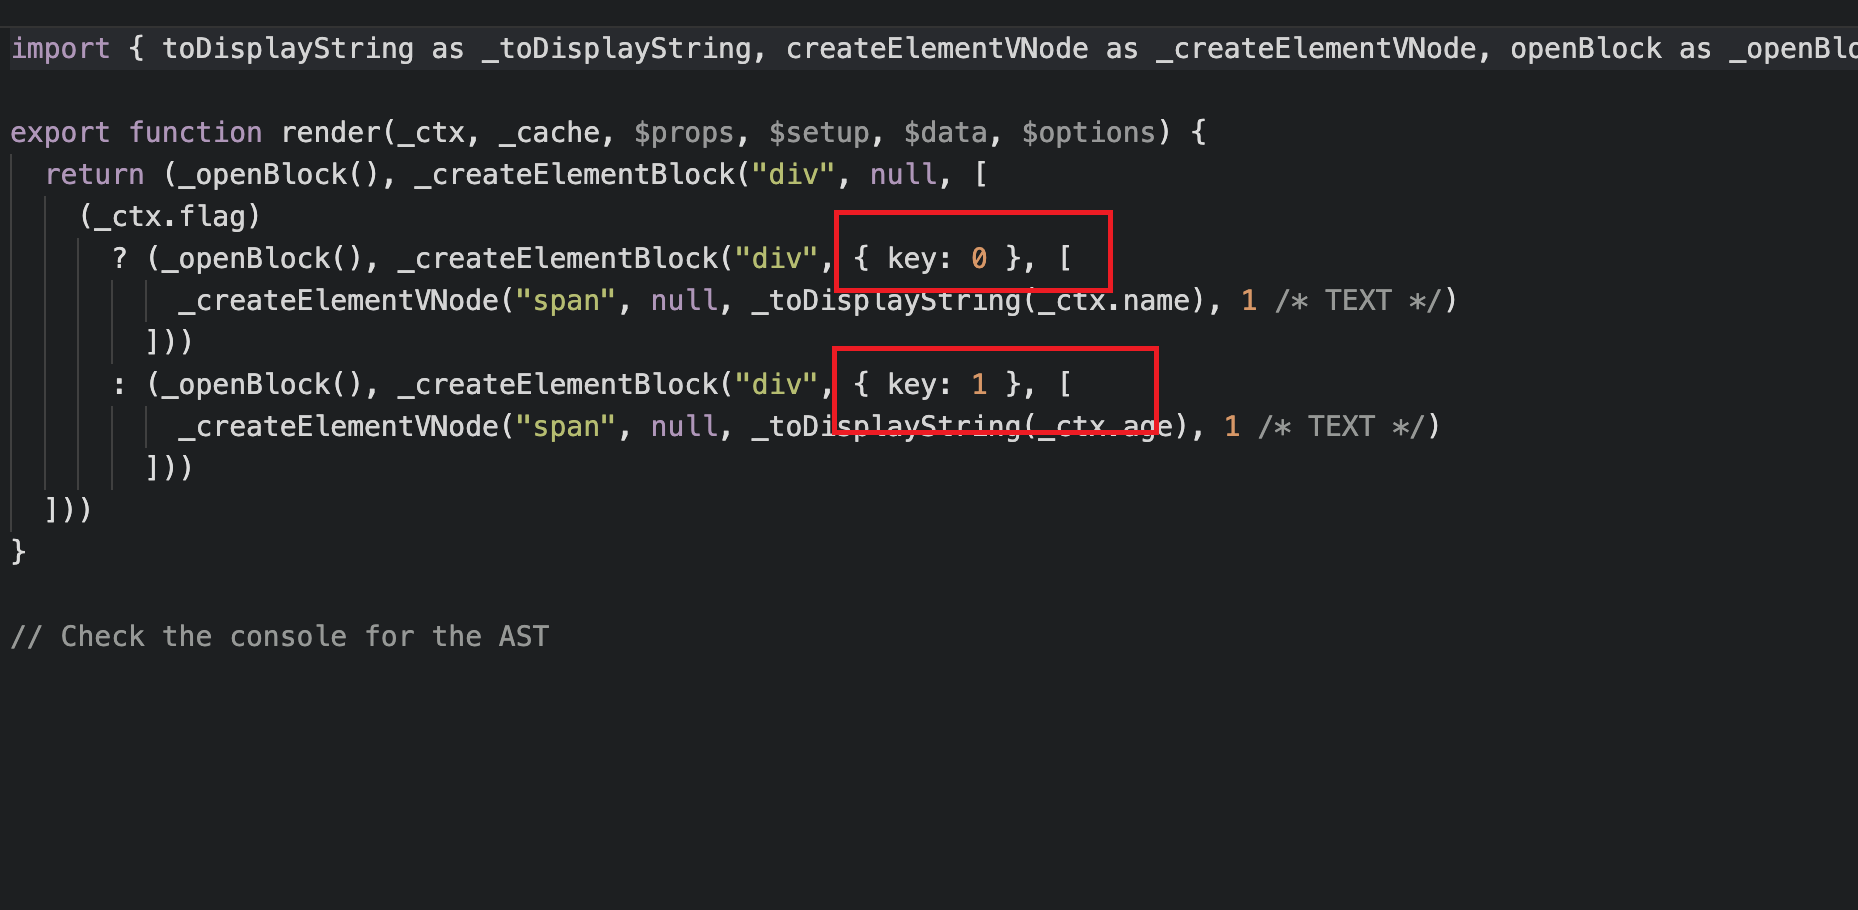
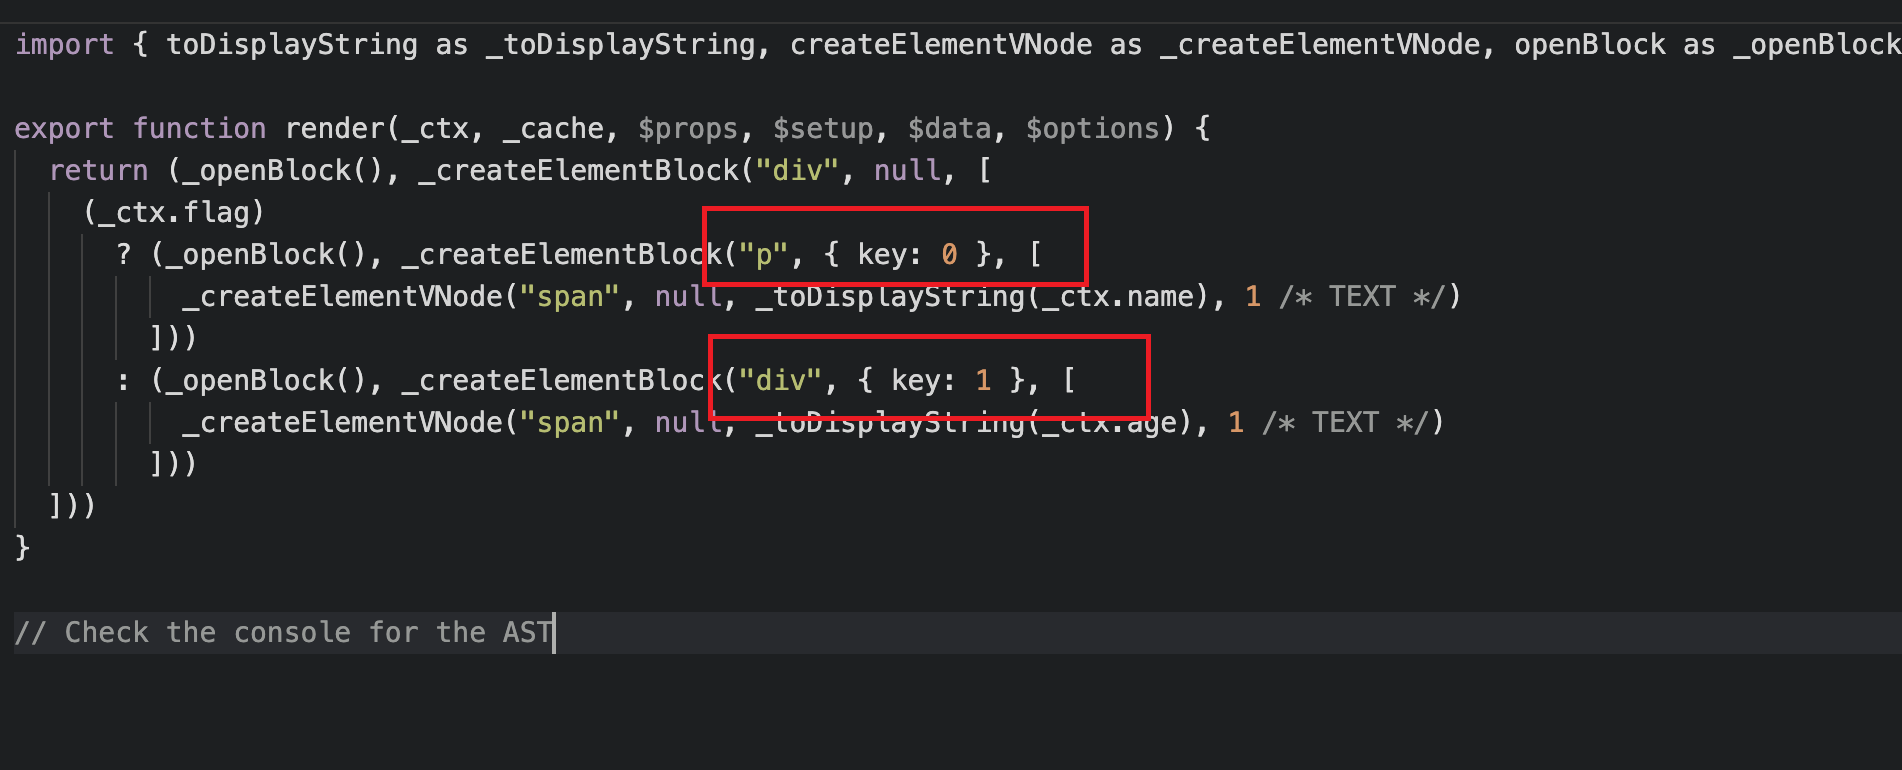
手写vue3---靶向更新的BlockTree

diff --git a/mini-vue/debug/runtime/patch-flags.html b/mini-vue/debug/runtime/patch-flags.html
@@ -41,20 +41,35 @@
     // }
 
 
+    // -------------------- v-if ----------------------
+
+    // export function render(_ctx, _cache, $props, $setup, $data, $options) {
+    //   return (_openBlock(), _createElementBlock("div", null, [
+    //     (_ctx.flag)
+    //       ? (_openBlock(), _createElementBlock("p", { key: 0 }, [
+    //         _createElementVNode("span", null, _toDisplayString(_ctx.name), 1 /* TEXT */)
+    //       ]))
+    //       : (_openBlock(), _createElementBlock("div", { key: 1 }, [
+    //         _createElementVNode("span", null, _toDisplayString(_ctx.age), 1 /* TEXT */)
+    //       ]))
+    //   ]))
+    // }
+
+
+    // -------------------- v-for ----------------------
+
     export function render(_ctx, _cache, $props, $setup, $data, $options) {
-      return (_openBlock(), _createElementBlock("section", null, [
-        (_ctx.flag)
-          ? (_openBlock(), _createElementBlock("div", { key: 0 }, [
-            _createElementVNode("span", null, _toDisplayString(_ctx.name), 1 /* TEXT */)
+      return (_openBlock(), _createElementBlock("div", null, [
+        (_openBlock(true), _createElementBlock(_Fragment, null, _renderList(_ctx.arr, (item) => {
+          return (_openBlock(), _createElementBlock("p", null, [
+            _createElementVNode("span", null, _toDisplayString(item), 1 /* TEXT */)
           ]))
-          : (_openBlock(), _createElementBlock("div", { key: 1 }, [
-            _createElementVNode("span", null, _toDisplayString(_ctx.age), 1 /* TEXT */)
-          ]))
+        }), 256 /* UNKEYED_FRAGMENT */))
       ]))
     }
 
     const vnode = render({
-      flag: true,
+      arr: [1, 2, 3],
     })
 
     console.log(vnode);

diff --git a/vue3简版手写.md b/vue3简版手写.md
@@ -1323,7 +1323,7 @@ export class ComputedRefImpl<T> {
     >     ```ts
     >     export class ComputedRefImpl<T> {
     >       public effect; // 计算属性依赖
-    >                 
+    >                     
     >       constructor(getter, public setter) {
     >         // 创建一个 effect 来关联当前计算属性的 dirty 属性
     >         this.effect = new ReactiveEffect(
@@ -1350,7 +1350,7 @@ export class ComputedRefImpl<T> {
     >       },
     >     });
     >     ```
-    >            
+    >                
     >     这一段，这一段会访问 state.name，触发 state.name 的 getter 函数，进行依赖收集，因为上面将 activeEffect 设置为 computed effect，所以这里的 state.name 收集到的依赖是  computed effect
     >
     >   - 执行完之后，设置 activeEffect = lastEffect，那么此时的 activeEffect 变成了 render effect
@@ -5205,13 +5205,17 @@ Block：为了规避全量比较 VNode，可以把这些动态的节点放到某
 
 
 
-然而在程序中一般包含了大量的`v-if`、`v-else`、`v-else-if`、`v-for`等可能改变**DOM**树结构的指令。比如：
+然而在程序中一般包含了大量的`v-if`、`v-else`、`v-else-if`、`v-for`等可能改变**DOM**树结构的指令。
+
+
+
+**对于 v-if：**
 
 ```vue
 <div>
-  <div v-if="flag">
+  <p v-if="flag">
     <span>{{ name }}</span>
-  </div>
+  </p>
   <div v-else>
     <span>{{ age }}</span>
   </div>
@@ -5230,25 +5234,49 @@ Block：为了规避全量比较 VNode，可以把这些动态的节点放到某
 
 ![](./imgs/img10.png)
 
-此时的 dynamicChildren 会生成两个
+此时 dynamicChildren 中会根据条件 flag 进行收集。同时有 key
 
-```ts
-// v-if/v-else 生成嵌套Block
-const _block = {
-  dynamicChildren: [
-    {
-      type: Symbol('Block'),
-      dynamicChildren: [/* v-if分支内容 */],
-      key: 'if-branch'
-    },
-    {
-      type: Symbol('Block'),
-      dynamicChildren: [/* v-else分支内容 */],
-      key: 'else-branch'
-    }
-  ]
-}
+在比对新旧 dynamicChildren 的时候，发现 key 不一致，直接更新
+
+
+
+**对于 v-for：**
+
+```vue
+<div>
+  <p v-for="item in arr">
+    <span>{{ item }}</span>
+  </p>
+</div>
 ```
+
+
+
+template 编译后生成：
+
+![](./imgs/img11.png)
+
+可以看到，创建 vnode 的时候，会先创建一个 Fragment 包裹。因为 for 循环，每次数据长度都可能不一样。那么是没法进行动态比较的。
+
+看下生成的 vnode
+
+![](./imgs/img12.png)
+
+所以 _openBlock(true) 参数是 true，表示不收集动态子节点，要进行全量比较。但是通过 Fragment 包裹，会将当前整个 for 循环当做动态节点收集到 dynamicChildren
+
+好处，比如
+
+```vue
+<div>
+  <div>hello</div>
+
+  <p v-for="item in arr">
+    <span>{{ item }}</span>
+  </p>
+</div>
+```
+
+这种有静态节点和 v-for 的场景，只会比较动态的 v-for，静态节点就跳过了
 
 
 
